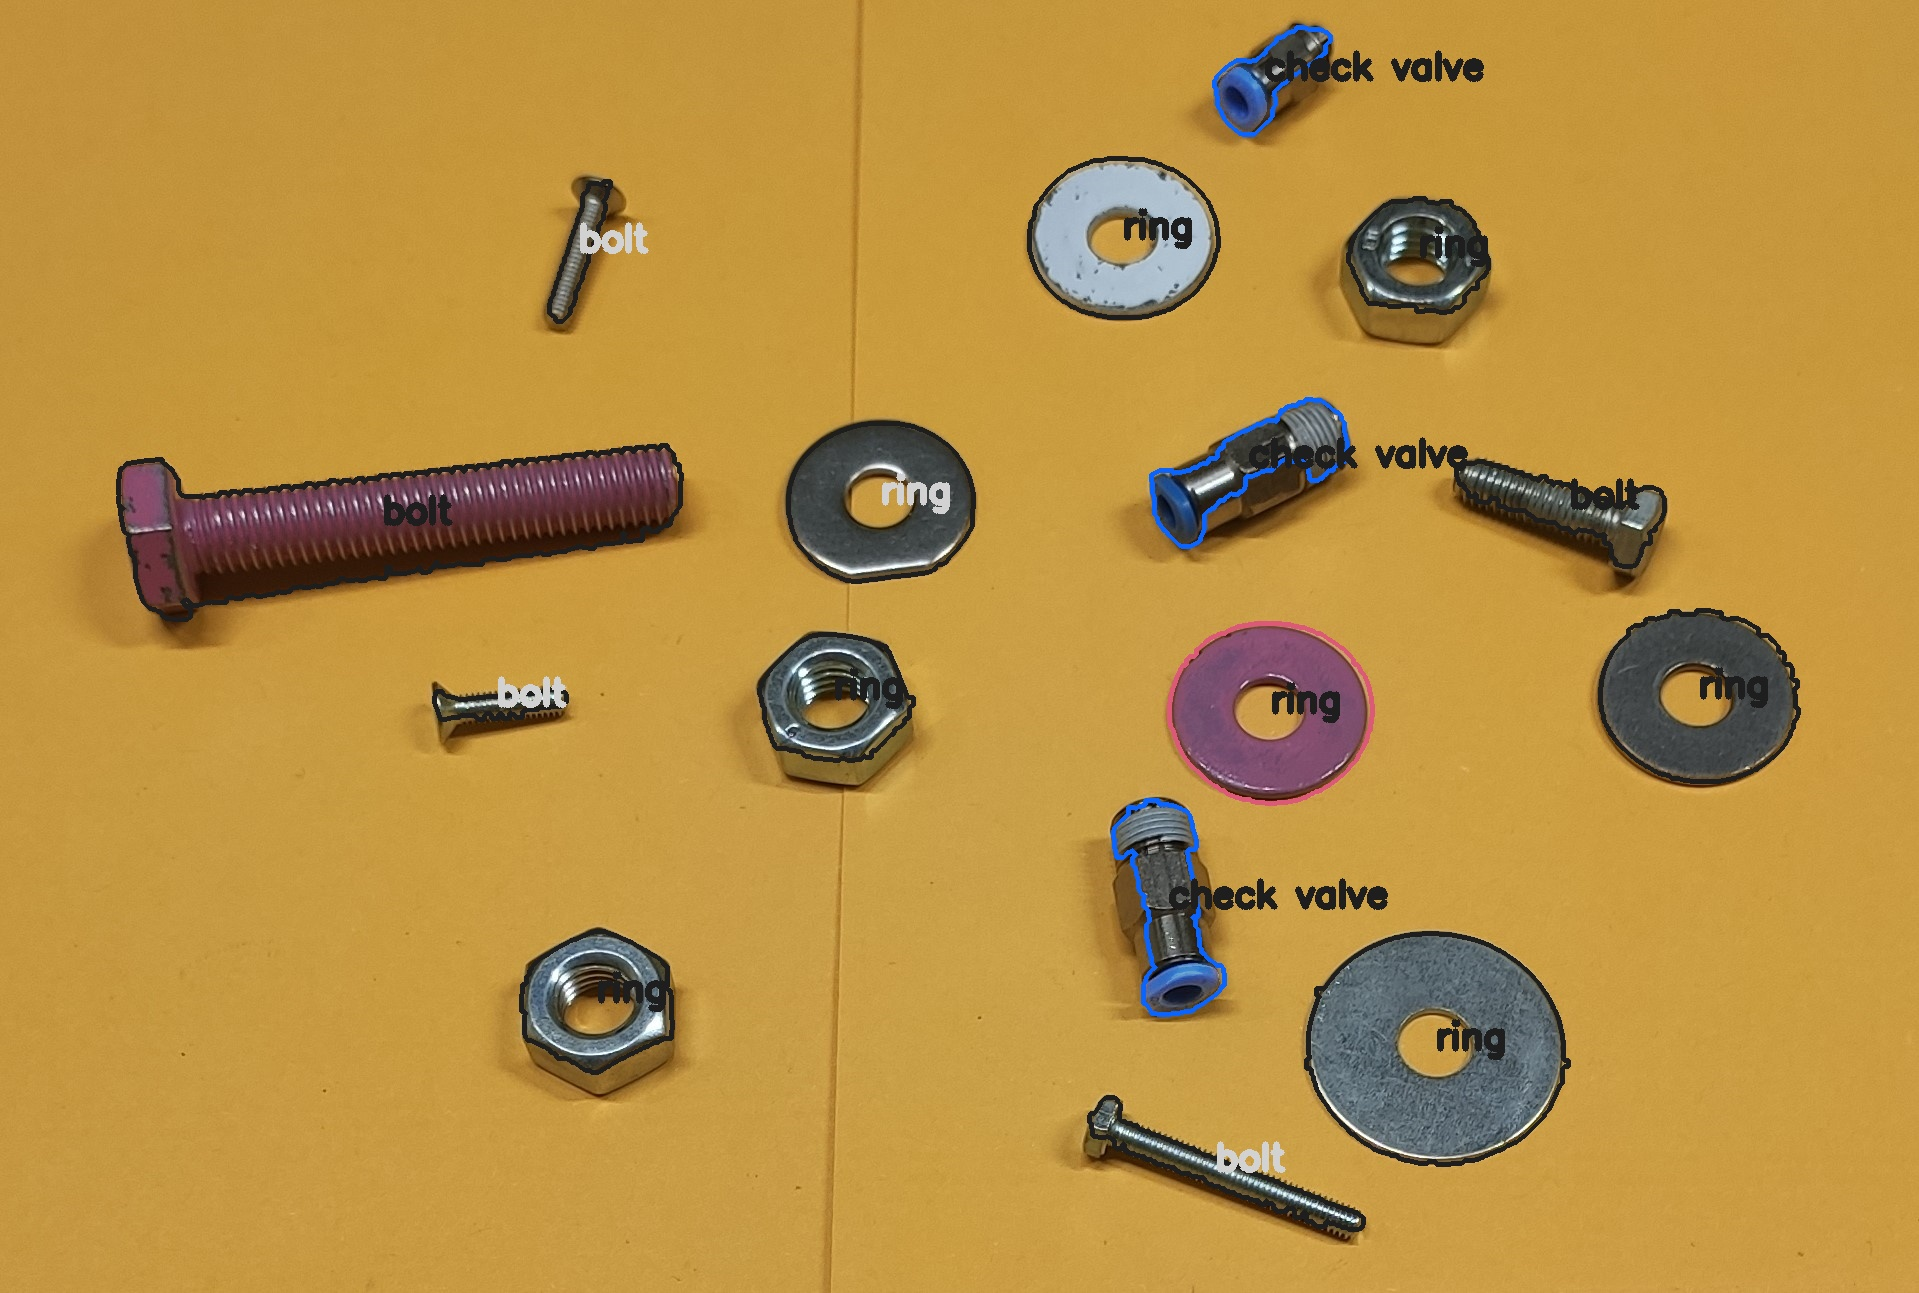
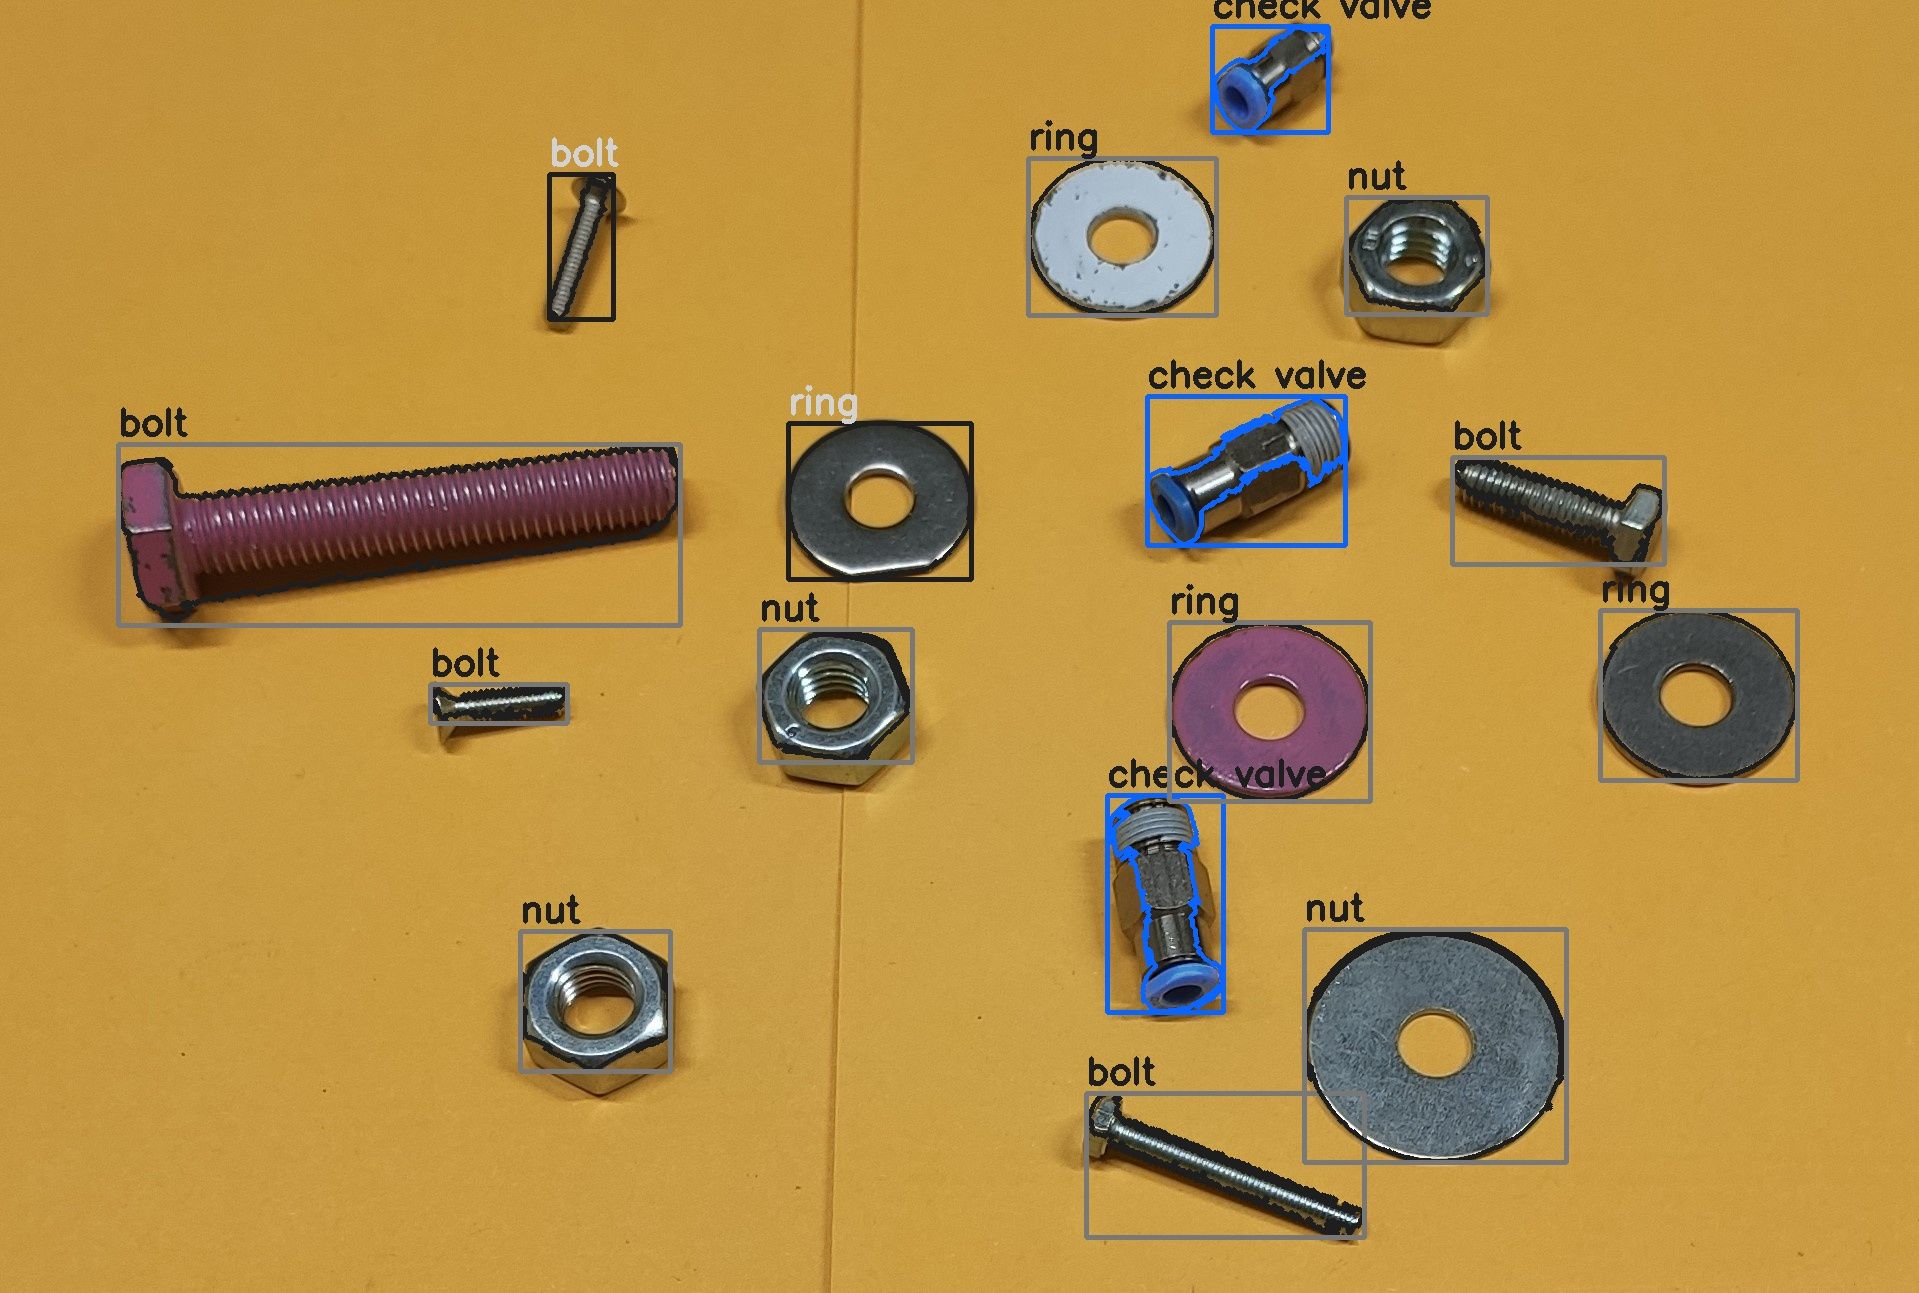
added bolt detection.

diff --git a/conventional/Conventional.py b/conventional/Conventional.py
@@ -43,7 +43,7 @@ class image():
             contour_color = black[1]
 
         cv.drawContours(original_image, contour, -1, contour_color, 4)
-        cv.putText(original_image, kind_of_object, position, cv.FONT_HERSHEY_SIMPLEX, 1.2, text_color, 6)
+        # cv.putText(original_image, kind_of_object, position, cv.FONT_HERSHEY_SIMPLEX, 1.2, text_color, 6)
 
     def draw_bounding(self, original_image, contour, position, kind_of_object, color):
         if kind_of_object == 'check valve':
@@ -93,6 +93,13 @@ upper_blue             = (120,    255,     255)
 # how big the smallest area should be, the other ones get filtered.
 filter_contour_area = 900
 
+# mask for identifying nuts
+contours_nut, _ = cv.findContours(cv.bitwise_not(cv.inRange(cv.cvtColor(cv.imread("./labeled_images/nut.jpg"), cv.COLOR_BGR2HSV), lower_background_color, upper_background_color)), cv.RETR_EXTERNAL, cv.CHAIN_APPROX_NONE)
+nut_contour_list    = []
+for contour in contours_nut:
+    if (cv.contourArea(contour) > 1000):
+        nut_contour_list.append(contour)
+
 # how big the kernel should be for the dilation / erosion.
 kernel = np.ones((4, 4), np.uint8)
 
@@ -114,18 +121,24 @@ def roundness(contour, moments) -> float:
 
 # TODO: Find ways to detect the other objects
 def find_object(contour, moment, mask) -> str:
-    k_value = roundness(contour, moment)
     
+    # check valve check
     blue_mask = np.zeros(mask.shape[:2], dtype="uint8")
     cv.drawContours(blue_mask, [contour], -1, 255, -1)
     individual_masks = cv.bitwise_and(mask, mask, mask = blue_mask)
     blue_mask = cv.inRange(individual_masks, lower_blue, upper_blue)
-    # print(np.mean(blue_mask))
+
+    # ring check
+    k_value = roundness(contour, moment)
+    # nut check
+    perc_nut = cv.matchShapes(nut_contour_list[0], contour, cv.CONTOURS_MATCH_I1, 0.0)
 
     if np.mean(blue_mask) > 0:
         return 'check valve'
-    elif k_value < 2.5:
+    elif k_value < 1.6:
         return 'ring'
+    elif perc_nut < 0.04:
+        return 'nut'
     else:
         return 'bolt'
 
@@ -174,11 +187,9 @@ for img in images:
     mask_binary = cv.bitwise_not(mask)
     mask_with_color = cv.bitwise_and(hsv_image, img.cv_image, mask = mask_binary)
 
-    # cv.erode(mask_binary, kernel, iterations=1)
-    mask_binary =  cv.erode(mask_binary, kernel, iterations=1)
+    # mask_binary =  cv.erode(mask_binary, kernel, iterations=1)
 
-    mask_binary = cv.dilate(mask_binary, kernel, iterations=1)
-    mask_binary = cv.dilate(mask_binary, kernel, iterations=1)
+    # mask_binary = cv.dilate(mask_binary, kernel, iterations=1)
 
     cv.dilate(mask_binary, kernel, iterations=1)
 
@@ -210,7 +221,7 @@ for img in images:
     # -=-=- draw contours (bounding box optional) and put text -=-=- #    
     for contour in range(len(img.contours)):
         img.draw_contour(img.cv_image, img.contours[contour].outline, img.contours[contour].position, img.contours[contour].kind_of_object, img.contours[contour].color)
-        # img.draw_bounding(img.cv_image, img.contours[contour].outline, img.contours[contour].position, img.contours[contour].kind_of_object, img.contours[contour].color)
+        img.draw_bounding(img.cv_image, img.contours[contour].outline, img.contours[contour].position, img.contours[contour].kind_of_object, img.contours[contour].color)
 
 # -=-=-=- SAVE IMAGES -=-=-=- #
 for img in images:
@@ -218,9 +229,9 @@ for img in images:
     cv.imwrite(output_dir, img.cv_image)
     
     # -=-=- save data to csv -=-=- #
-    # with open('./output_data.csv', 'a', encoding='UTF8', newline='') as csv_file:
-    #     csv_writer = csv.writer(csv_file)
-    #     for contour in range(len(img.contours)):
-    #         csv_writer.writerow((img.name, img.contours[contour].kind_of_object, 1, img.contours[contour].position, img.contours[contour].oriëntation, img.contours[contour].color))
+    with open('./output_data.csv', 'a', encoding='UTF8', newline='') as csv_file:
+        csv_writer = csv.writer(csv_file)
+        for contour in range(len(img.contours)):
+            csv_writer.writerow((img.name, img.contours[contour].kind_of_object, 1, img.contours[contour].position, img.contours[contour].oriëntation, img.contours[contour].color))
 
 print("done! data saved to: output_data.csv")
